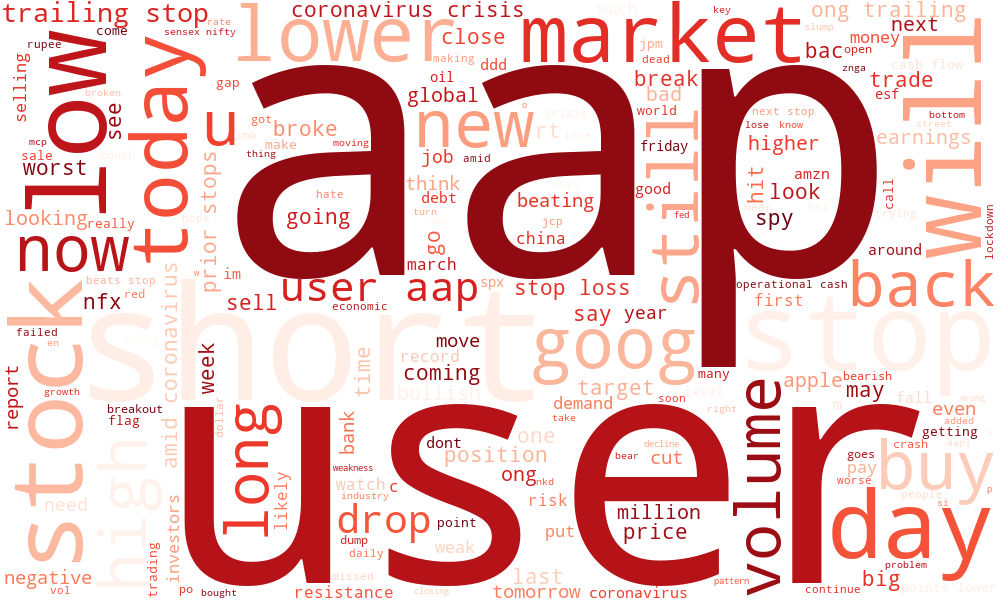
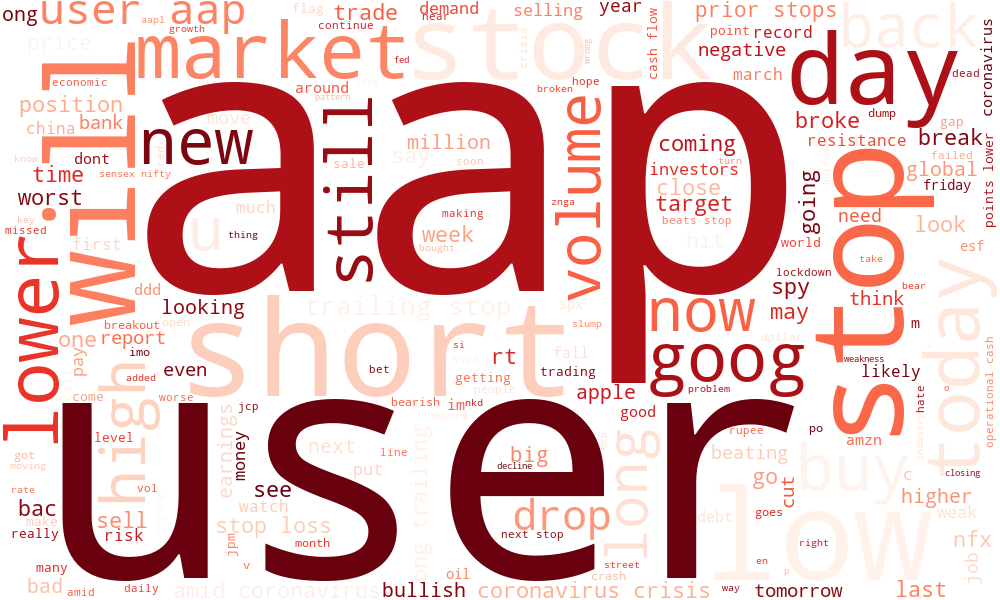
Updated sentiment analysis script and regenerated wordcloud images

diff --git a/main.py b/main.py
@@ -3,12 +3,12 @@ import re
 from textblob import TextBlob
 from nltk.sentiment import SentimentIntensityAnalyzer
 import nltk
-from collections import Counter
 from wordcloud import WordCloud
 import matplotlib.pyplot as plt
 
 # --------------------- CONFIG ---------------------
 CSV_FILE = "stock_data.csv"   # rename your csv to this
+NLTK_LOCAL_PATH = r"C:\Users\Aditya Menon\AppData\Roaming\nltk_data"
 
 # --------------------- LOAD DATA ------------------
 print("\n📌 Loading dataset...")
@@ -31,21 +31,29 @@ df["clean_text"] = df[text_col].apply(clean_text)
 # ---------------- FIX NLTK + SENTIMENT -----------------------
 print("\n🧠 Running sentiment analysis...")
 
-# Safe vader downloader – avoids SSL failures
+# Force NLTK to load local VADER lexicon
+nltk.data.path.append(NLTK_LOCAL_PATH)
+
 try:
     sia = SentimentIntensityAnalyzer()
-except:
-    print("🔄 Vader Lexicon missing — downloading...\n")
-    nltk.set_proxy('http://')  # bypass SSL check
-    nltk.download('vader_lexicon', quiet=True)
-    sia = SentimentIntensityAnalyzer()
+    print("✔ VADER Lexicon Loaded Successfully (Local)")
+except Exception as e:
+    print("❌ ERROR: VADER lexicon NOT found at:")
+    print("   ", NLTK_LOCAL_PATH + r"\sentiment\vader_lexicon.txt")
+    print("\n📌 FIX:")
+    print("Download:")
+    print("https://raw.githubusercontent.com/cjhutto/vaderSentiment/master/vaderSentiment/vader_lexicon.txt")
+    print("Place it inside:")
+    print(NLTK_LOCAL_PATH + r"\sentiment\\")
+    exit()
 
+# Compute sentiment
 df["polarity"] = df["clean_text"].apply(lambda t: TextBlob(t).sentiment.polarity)
 df["vader_score"] = df["clean_text"].apply(lambda t: sia.polarity_scores(t)["compound"])
 
-# Label sentiment
+# Sentiment labels
 def label(score):
-    return "Positive" if score>=0.25 else "Negative" if score<=-0.25 else "Neutral"
+    return "Positive" if score >= 0.25 else "Negative" if score <= -0.25 else "Neutral"
 
 df["sentiment"] = df["vader_score"].apply(label)
 print("\n📊 Sentiment Distribution:\n", df["sentiment"].value_counts(), "\n")
@@ -53,24 +61,26 @@ print("\n📊 Sentiment Distribution:\n", df["sentiment"].value_counts(), "\n")
 # ---------------- WORD CLOUDS --------------------
 print("☁ Generating sentiment-specific WordClouds...")
 
-pos_text = " ".join(df[df.sentiment=="Positive"]["clean_text"])
-neg_text = " ".join(df[df.sentiment=="Negative"]["clean_text"])
-neu_text = " ".join(df[df.sentiment=="Neutral"]["clean_text"])
+pos_text = " ".join(df[df.sentiment == "Positive"]["clean_text"])
+neg_text = " ".join(df[df.sentiment == "Negative"]["clean_text"])
+neu_text = " ".join(df[df.sentiment == "Neutral"]["clean_text"])
 
 wc_pos = WordCloud(width=1000, height=600, background_color="white", colormap="Greens").generate(pos_text)
 wc_neg = WordCloud(width=1000, height=600, background_color="white", colormap="Reds").generate(neg_text)
 wc_neu = WordCloud(width=1000, height=600, background_color="white", colormap="Blues").generate(neu_text)
 
-fig, axes = plt.subplots(1,3, figsize=(20,7))
+fig, axes = plt.subplots(1, 3, figsize=(20, 7))
 axes[0].imshow(wc_pos); axes[0].set_title("Positive Sentiment", fontsize=18)
 axes[1].imshow(wc_neg); axes[1].set_title("Negative Sentiment", fontsize=18)
 axes[2].imshow(wc_neu); axes[2].set_title("Neutral Sentiment", fontsize=18)
 
-for ax in axes: ax.axis("off")
+for ax in axes: 
+    ax.axis("off")
+
 plt.tight_layout()
 plt.show()
 
-# Save output
+# Save output files
 wc_pos.to_file("positive_wordcloud.png")
 wc_neg.to_file("negative_wordcloud.png")
 wc_neu.to_file("neutral_wordcloud.png")
